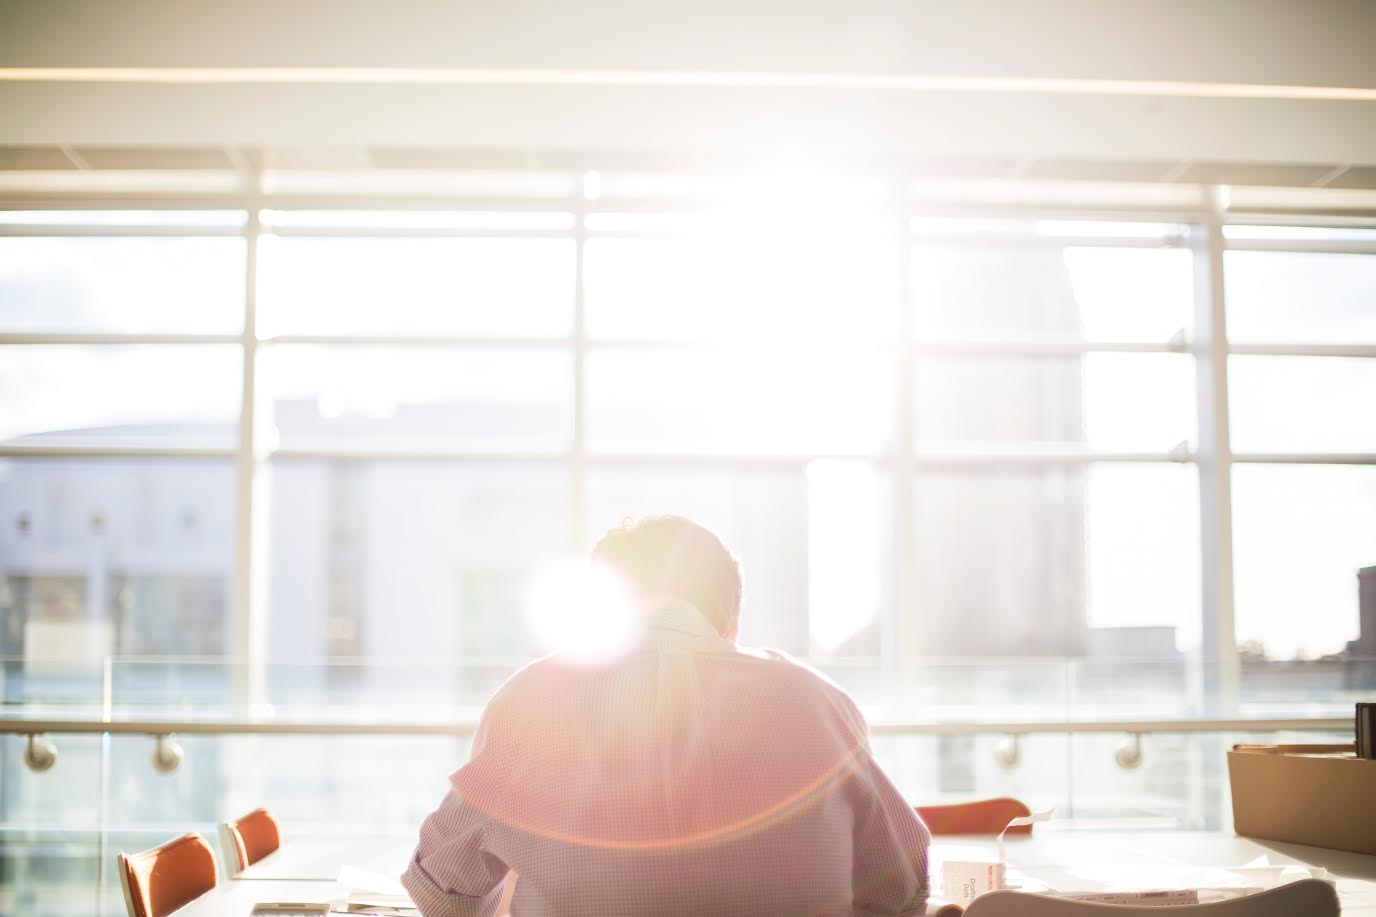
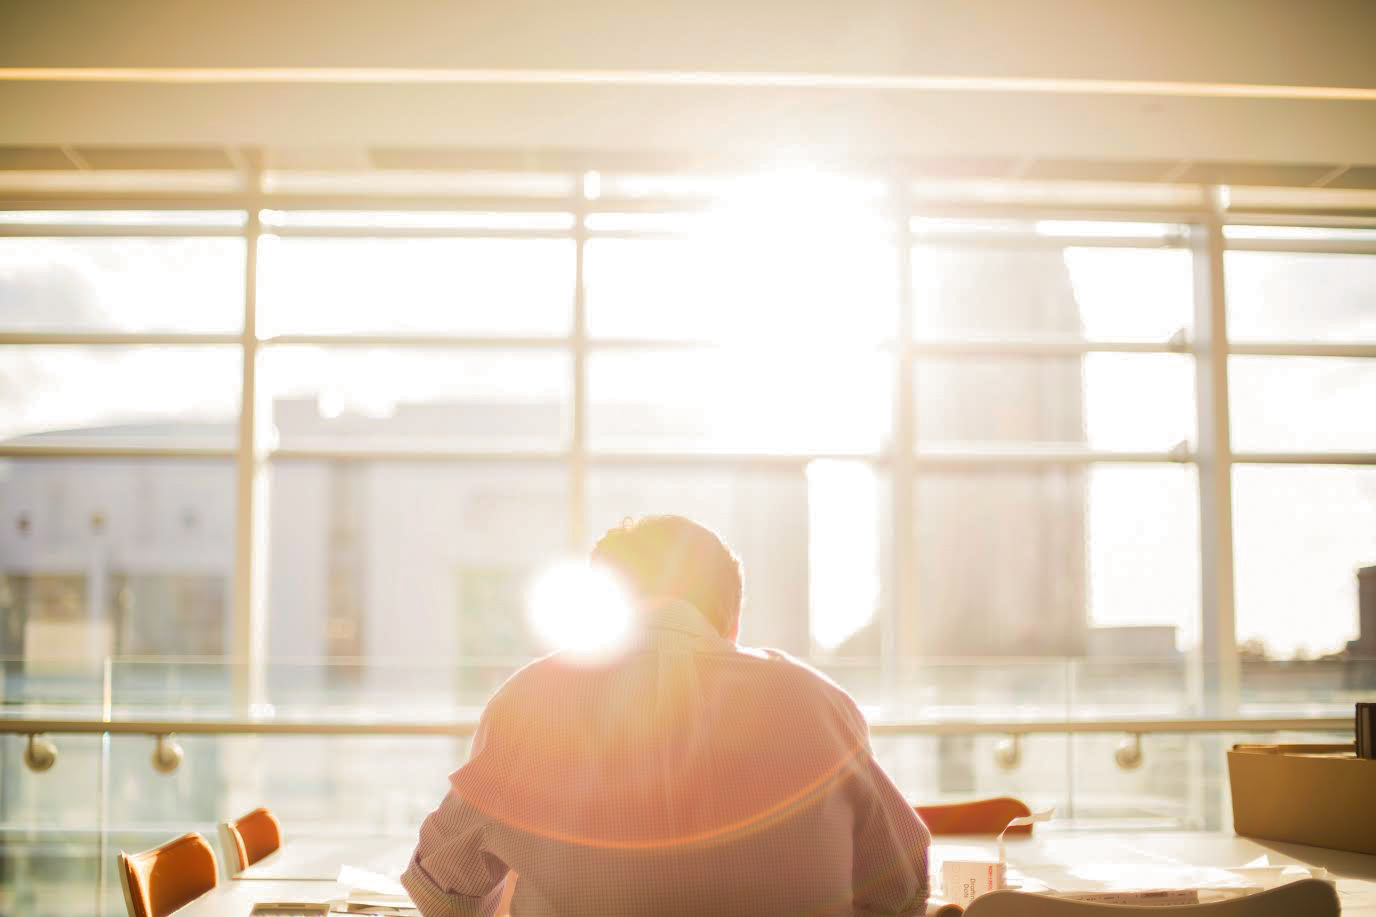
Make cover photo text more legible
Edited photos and text shadow to be darker.

diff --git a/css/main.css b/css/main.css
@@ -59,7 +59,7 @@ a, a:focus, a:hover, a:-webkit-any-link {
 }
 
 h1 {
-    text-shadow: 1px 1px 4px #404040;
+    text-shadow: 1px 1px 4px #1a1a1a;
 }
 
 .jumbotron {
